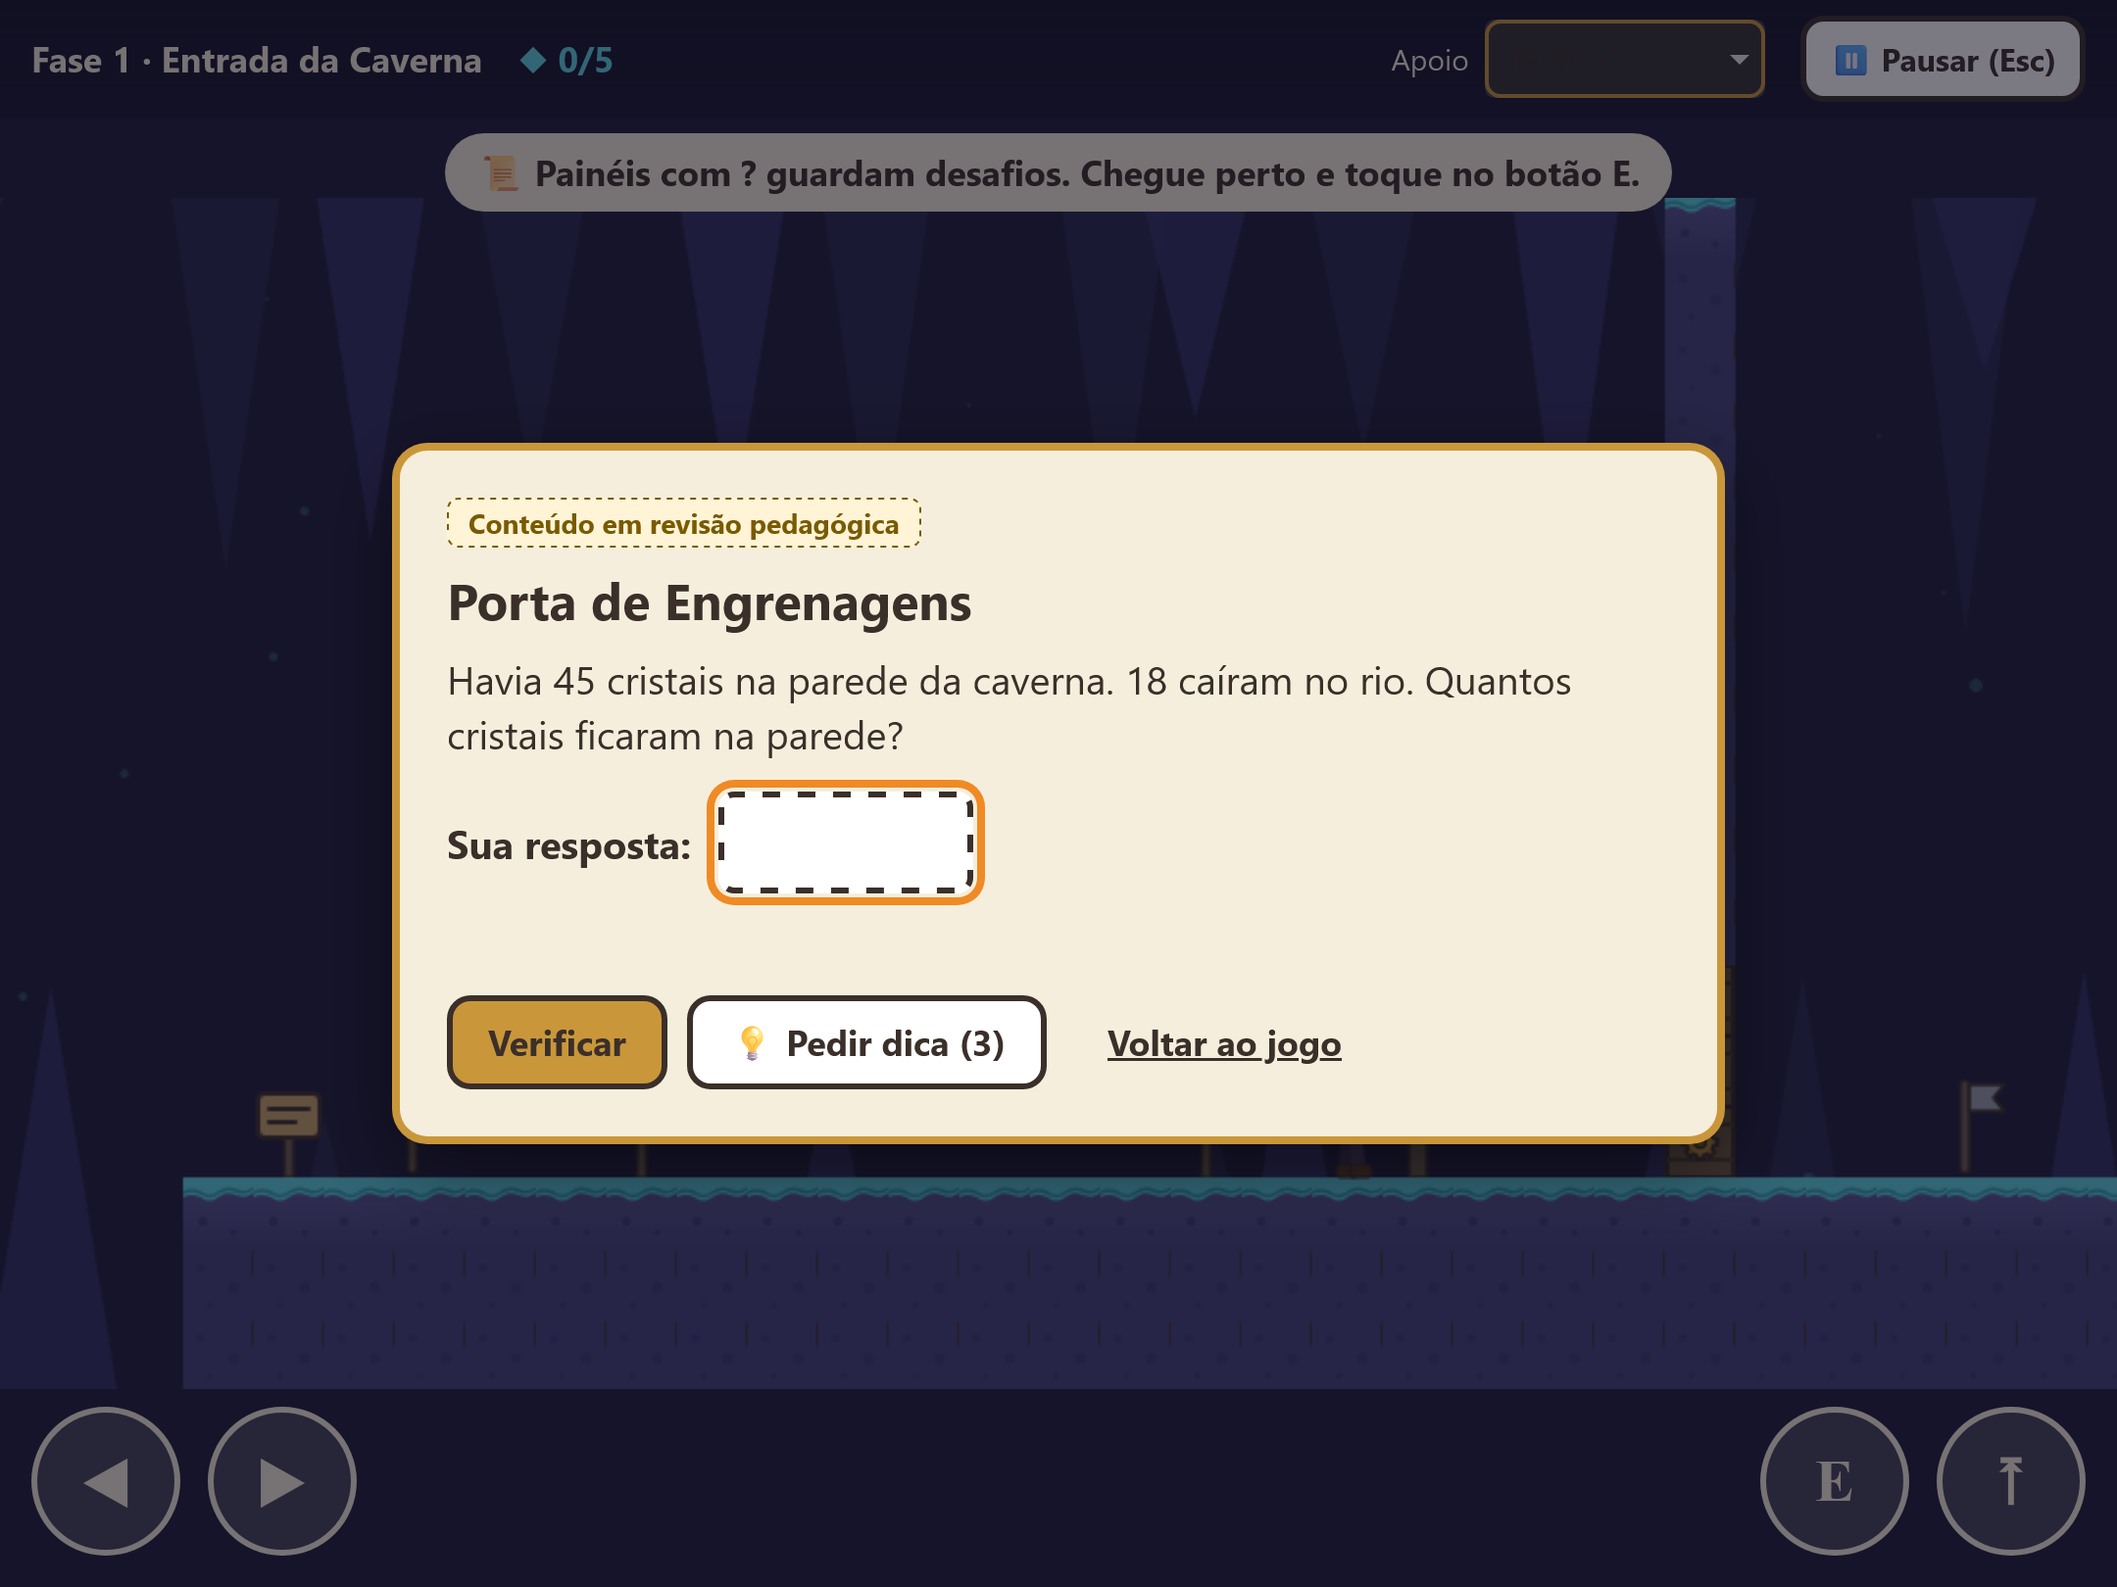
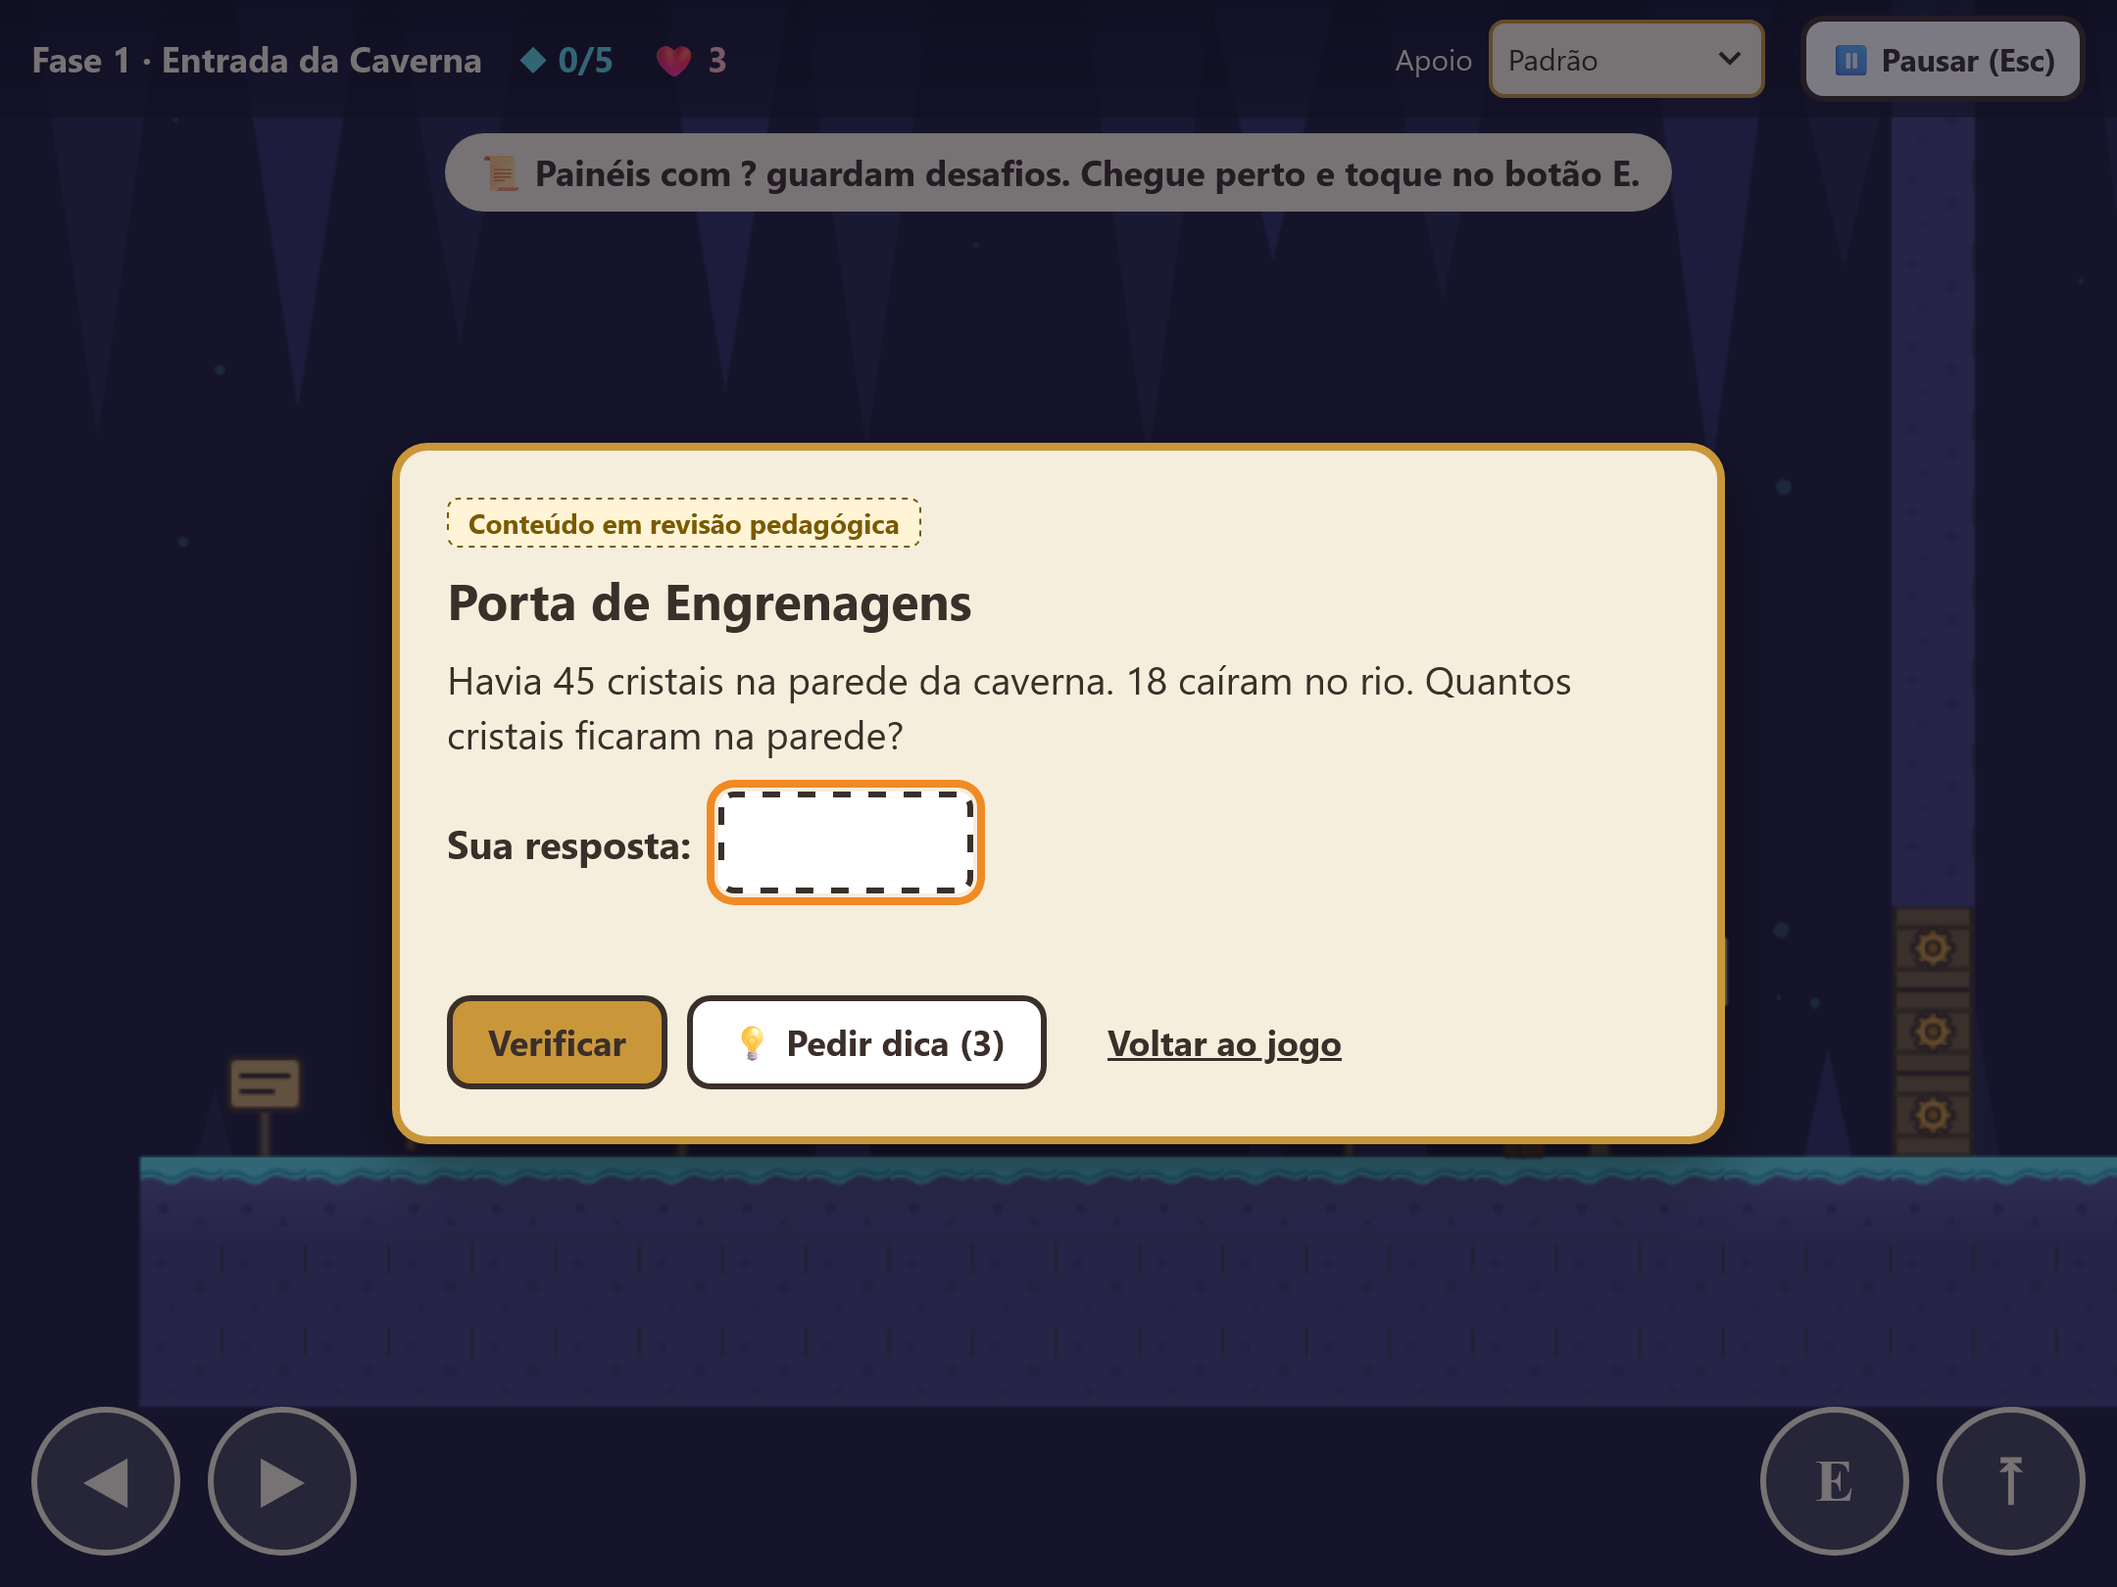
Vidas e enquadramento: docs, capturas e pausa bloqueada na janela de recomeço

diff --git a/src/scenes/LevelScene.ts b/src/scenes/LevelScene.ts
@@ -315,12 +315,10 @@ export class LevelScene extends Phaser.Scene {
     this.cameras.main.startFollow(this.leo, true, 0.12, 0.12, 0, 40);
     this.cameras.main.setDeadzone(120, 80);
 
-    const onEsc = (): void => {
-      if (!this.dialog && !this.completed) this.game.events.emit(EV.pauseRequest);
-    };
+    const onEsc = (): void => this.pedirPausa();
     this.input.keyboard?.on('keydown-ESC', onEsc);
 
-    showHud(this.data_.titulo, () => this.game.events.emit(EV.pauseRequest));
+    showHud(this.data_.titulo, () => this.pedirPausa());
     this.updateCollectHud();
     setVidas(this.vidas.vidas);
     this.mountTouchIfWanted();
@@ -433,8 +431,15 @@ export class LevelScene extends Phaser.Scene {
     this.destroyTouch?.();
     this.destroyTouch = null;
     this.mountTouchIfWanted();
-    showHud(this.data_.titulo, () => this.game.events.emit(EV.pauseRequest));
+    showHud(this.data_.titulo, () => this.pedirPausa());
     this.updateCollectHud();
+    // A entrada nova nasce ligada: desliga de novo se há desafio, recomeço ou pedido para girar na tela.
+    this.input_.setEnabled(!this.dialog && !this.recomeco && !this.girando);
+  }
+
+  /** Pausa (Esc ou botão), menos por cima de um desafio, da janela de vidas zeradas ou com a fase concluída. */
+  private pedirPausa(): void {
+    if (!this.dialog && !this.recomeco && !this.completed) this.game.events.emit(EV.pauseRequest);
   }
 
   private updateCollectHud(): void {

diff --git a/tests/e2e/vidas.spec.ts b/tests/e2e/vidas.spec.ts
@@ -77,6 +77,17 @@ test.describe('vidas por fase', () => {
     expect(pontos.checkpoints.every((c) => !c.ativa)).toBe(true);
   });
 
+  test('com a janela de vidas zeradas aberta, Esc não abre a pausa por cima', async ({ page }) => {
+    await open(page);
+    await startLevel(page, 'f1');
+    for (let i = 0; i < 3; i++) await cair(page);
+    await expect(page.getByRole('dialog')).toContainText('As vidas acabaram!');
+    await page.keyboard.press('Escape');
+    await page.waitForTimeout(300);
+    expect(await page.evaluate(() => window.__leo!.screen())).toBeNull();
+    await expect(page.getByRole('dialog')).toContainText('As vidas acabaram!');
+  });
+
   test('concluir depois de recomeçar conta só os coletáveis da nova tentativa', async ({ page }) => {
     await open(page);
     await startLevel(page, 'f1');

diff --git a/docs/relatorios/vidas-e-enquadramento.md b/docs/relatorios/vidas-e-enquadramento.md
@@ -1,0 +1,60 @@
+# Relatório: vidas por fase e enquadramento em celular/tablet
+
+Data: 19/11/2026 · Versão: 0.11.0-alpha.1 · Desenho: [vidas-e-enquadramento-design](../superpowers/specs/2026-11-19-vidas-e-enquadramento-design.md) · Plano: [vidas-e-enquadramento](../superpowers/plans/2026-11-19-vidas-e-enquadramento.md)
+
+## Vidas
+
+| Situação | O que acontece |
+|---|---|
+| Início da fase | ❤ 3 no topo; no modo assistido, ❤ ∞ (sem limite) |
+| Pegar um coletável | Conta, mas só fica "guardado" ao tocar numa bandeira |
+| Tocar numa bandeira | "🚩 Bandeira! Seus cristais estão guardados. Se cair, você volta para cá." |
+| Cair num buraco | −1 vida e volta à última bandeira. Os coletáveis pegos depois dela voltam para o lugar, com o aviso "Ops! Você caiu. Restam 2 vidas…" |
+| Vidas zeradas | Janela "As vidas acabaram! Vamos tentar de novo do começo da fase. Os desafios que você resolveu continuam abertos." → **Recomeçar a fase** |
+| Recomeço | Leo no início. Coletáveis, bandeiras e caixas voltam ao estado inicial e as vidas voltam a 3. **Pontes, portas, escadas e elevadores já ativados continuam abertos** |
+| Errar um desafio | Nunca custa vida |
+
+A regra fica em [`src/core/vidas.ts`](../../src/core/vidas.ts), separada do Phaser e com testes unitários. Os testes de ponta a ponta estão em [`tests/e2e/vidas.spec.ts`](../../tests/e2e/vidas.spec.ts):
+- a bandeira guarda os coletáveis;
+- duas quedas seguidas gastam só 1 vida;
+- o recomeço mantém os desafios;
+- o resultado da fase conta só a nova tentativa;
+- o modo assistido não tem limite;
+- o Esc não abre a pausa por cima da janela.
+
+## Enquadramento
+
+| Problema (antes) | Correção |
+|---|---|
+| Celular deitado: faixas pretas nas laterais; botões de toque por cima do Leo e do chão | A escala do Phaser passou de `FIT` para `EXPAND`, e a fase ocupa a tela toda. O zoom da câmera mostra sempre ~540 px de altura do mundo e reserva embaixo a faixa dos botões, que ficam abaixo do chão ([`camera.ts`](../../src/scenes/camera.ts)) |
+| Celular em pé: a fase virava uma faixa fina no meio | Aparece "Vire o celular para jogar 🔄" com a fase pausada; ela continua sozinha ao girar ([`girar.ts`](../../src/ui/girar.ts)). As janelas de desafio aparecem por cima e funcionam em pé |
+| Tablet em pé: fase pequena com faixas | A fase ocupa a largura toda e fica logo acima dos botões; o espaço livre fica em cima, como céu |
+| Desafio "Toque no grupo com 6 estrelas": estrelas vazando dos cartões (foto do usuário, iPhone em pé) | Os grupos mantêm 5 figuras por linha, mas as figuras encolhem para caber no cartão |
+| Seletor "Apoio" ilegível no Safari/iPhone (texto escuro sobre controle escuro) | Seletor com aparência própria: fundo claro, texto escuro e seta desenhada |
+| Barra do topo apertada no celular deitado | "Pausar (Esc)" vira só o ícone ⏸ em telas baixas |
+
+Verificação automática em 7 aparelhos emulados ([`dispositivos.spec.ts`](../../tests/e2e/dispositivos.spec.ts)): iPhone 14 em pé e deitado, iPad em pé e deitado, Pixel 7 em pé e deitado, Galaxy Tab S4. Ela confere:
+- **deitado:** o jogo ocupa a largura e a altura da tela;
+- **em todos:** nenhum botão de toque cobre o Leo;
+- **só no celular em pé:** aparece o pedido para girar, e o Leo não se move enquanto isso;
+- **1º ano:** nenhuma figura sai do cartão nas janelas de escolha por imagem;
+- **axe-core:** sem violações de acessibilidade.
+
+Capturas em [`evidencias/`](evidencias/): `disp-*-fase.png`, `disp-*-girar.png`, `disp-*-escolha-*.png` e `disp-*-ordenar.png`.
+
+## Resultados
+
+| Suíte | Resultado |
+|---|---|
+| Unitários | 220 de 220 |
+| Edge, suíte completa | 56 passaram, 3 ignorados (os de toque) |
+| Celulares e tablets emulados | 21 de 21, nos 7 aparelhos × 3 testes |
+| Safari (WebKit): vidas e voz | 13 de 13, depois da correção do Esc |
+
+Na revisão final apareceu um problema, que já está corrigido: o Esc (ou o botão de pausa) abria a pausa por cima da janela "As vidas acabaram!". Ao voltar das configurações, os controles também eram religados com essa janela aberta. O teste "Esc não abre a pausa por cima" falhou antes da correção e passa agora.
+
+## Limites honestos
+
+- **Emulação não é aparelho físico.** O entalhe, a barra de gestos e a rotação de verdade (com a barra de endereço do Safari aparecendo e sumindo) precisam ser conferidos pelo roteiro [A3](../testes/roteiro-testes-manuais.md).
+- **Tablet em pé** mostra uma faixa escura acima da fase (fora do mapa). Nas fases claras (Vila, Cidade), essa faixa contrasta com o céu.
+- **O modo assistido** vale a partir do início da fase: ligá-lo no meio dela só vale ao recomeçar ou trocar de fase.

diff --git a/docs/gdd/gdd.md b/docs/gdd/gdd.md
@@ -5,7 +5,7 @@ Versão 0.2 · 17/11/2026
 ## 1. Visão
 Platformer 2D educativo. Leo, um jovem inventor, recupera as seis peças da Grande Engrenagem do Saber, uma em cada mundo (1º ao 6º ano). Os desafios de matemática **são** os mecanismos do cenário: resolver ergue pontes, abre portas, liga elevadores e monta escadas.
 
-**Pilares:** diversão de plataforma · aprendizagem com consequência visível · zero punição por errar.
+**Pilares:** diversão de plataforma · aprendizagem com consequência visível · zero punição por errar **na matemática** (errar um desafio nunca custa vida; as vidas valem só para quedas — ver §6).
 
 ## 2. Fluxo do jogador
 Abertura → História (3 quadros, pode pular, narração opcional) → Escolha do ano (os seis anos ativos) → Mapa do mundo (fases bloqueiam/desbloqueiam em ordem) → Fase → Tela de conclusão ("O que você descobriu", cristais, dicas, conquistas) → Próxima fase → Conclusão do mundo (engrenagem recuperada).
@@ -26,7 +26,7 @@ Física: passo fixo de 60 Hz; *coyote time* 100 ms; *buffer* de pulo 120 ms; sal
 | Elemento | Comportamento |
 |---|---|
 | Ponto de controle (bandeira) | Ao tocar, vira o lugar de reaparecimento |
-| Buraco | Cair devolve ao último ponto de controle (sem perder nada) |
+| Buraco | Cair gasta 1 vida e devolve à última bandeira; os coletáveis pegos depois dela voltam para o lugar |
 | Caixa | Empurrável; serve de degrau; volta ao lugar se cair |
 | Plataforma móvel | Vai e volta; carrega o Leo |
 | Cristal | Coletável opcional; contado no HUD e na conclusão |
@@ -112,7 +112,13 @@ O 1º ano continua sem plataformas móveis nem caixas. Novo formato do 1º ano n
 - Acerto: som curto ascendente, ✓ por espaço, explicação, mecanismo se move.
 - Erro: som suave, ✗ por espaço/máquina, mensagem específica (ex.: "3 linhas de 3 = 9 blocos — faltam 3"), dica conforme o apoio; explicação após 3 erros.
 - Conquistas valorizam esforço: primeira descoberta, pediu ajuda, persistência, explorador (todos os cristais), engrenagem.
-- **Não há:** pontuação, ranking, tempo-limite, vidas, compras ou anúncios.
+- **Vidas (desde a v0.11, decisão do responsável pelo projeto):**
+  - 3 por fase; cair num buraco gasta 1.
+  - A bandeira guarda os coletáveis pegos até ali; ao cair, voltam para o lugar só os pegos depois da última bandeira.
+  - Quando as vidas acabam, aparece uma janela gentil (sem "perdeu" ou "game over") e a fase recomeça do início. Os desafios resolvidos e os mecanismos continuam abertos.
+  - No **modo assistido** não há limite de vidas.
+  - Errar um desafio nunca custa vida.
+- **Não há:** pontuação, ranking, tempo-limite, compras ou anúncios.
 
 ## 7. Acessibilidade
 Desafios e menus em HTML acessível; foco visível; Esc/Enter/Tab; ✓/✗ além de cor; narração pt-BR; volumes separados; reduzir animações; texto maior; modo assistido; controles de toque; remapeamento de teclas. Ver relatório de testes para os limites conhecidos (o canvas não é lido por leitores de tela).

diff --git a/CHANGELOG.md b/CHANGELOG.md
@@ -2,6 +2,26 @@
 
 Formato: [versionamento semântico](https://semver.org/lang/pt-BR/). Versões `alpha` são protótipos de homologação, com conteúdo em revisão pedagógica.
 
+## 0.11.0-alpha.1 — 19/11/2026 · Vidas e enquadramento em celular/tablet
+- **3 vidas por fase.**
+  - O topo da tela mostra "❤ 3" ("❤ ∞" no modo assistido, que não tem limite).
+  - Cair num buraco gasta 1 vida e volta à última bandeira.
+  - Os coletáveis pegos depois da última bandeira voltam para o lugar. A bandeira os guarda: "Seus cristais estão guardados".
+- **Vidas zeradas:** uma janela gentil, "As vidas acabaram! Vamos tentar de novo do começo da fase", e a fase recomeça. Os desafios resolvidos e os mecanismos continuam abertos.
+- Errar um desafio continua sem custo.
+- **A fase ocupa a tela inteira** em celular e tablet (escala `EXPAND` do Phaser, com zoom de câmera):
+  - os botões de toque ficam numa faixa abaixo do chão e nunca cobrem o Leo;
+  - no tablet em pé, a fase fica logo acima dos botões.
+- **Celular em pé durante a fase:** "Vire o celular para jogar", com a fase pausada até girar. Menus e janelas de desafio continuam funcionando em pé.
+- **Desafios de escolha por imagem:** as figuras não vazam mais dos cartões em telas estreitas. Os grupos mantêm 5 por linha, com figuras que encolhem.
+- **Barra do topo:**
+  - o seletor "Apoio" ficou legível no Safari/iPhone;
+  - no celular deitado, a pausa vira só o ícone.
+- **Testes:**
+  - 220 unitários;
+  - vidas (`tests/e2e/vidas.spec.ts`);
+  - dispositivos: tela cheia, botões fora do Leo, pedido para girar e figuras dentro dos cartões, em 7 aparelhos emulados.
+
 ## 0.10.0-alpha.1 — 18/11/2026 · Voz humana do narrador (Faber)
 - **Narrador com voz neural Faber** (Piper, pt-BR), gerada no próprio aparelho: mesma voz humana em computador, tablet e celular, inclusive nos desafios sorteados. É grátis, sem conta, e nada é enviado para fora.
 - **Download automático** na primeira visita (cerca de 92 MB, só uma vez, com aviso discreto). Depois fica guardada no aparelho e funciona sem internet. Enquanto carrega, ou se o aparelho não aguentar, o narrador usa a voz do navegador.

diff --git a/docs/testes/roteiro-testes-manuais.md b/docs/testes/roteiro-testes-manuais.md
@@ -20,6 +20,19 @@ Use em cada navegador/dispositivo. Marque ✅ (ok), ❌ (falhou — registre em 
 | O som da voz respeita o volume "Voz (narração)" e some com o volume em zero | Sim | |
 | Sem internet (modo avião), depois de baixada: a voz continua funcionando | Sim | |
 
+## A3. Vidas e enquadramento em aparelho real
+
+| Verificação | Esperado | Resultado por aparelho |
+|---|---|---|
+| Celular **em pé** ao entrar numa fase | "Vire o celular para jogar"; o Leo não se move | |
+| Girar para **deitado** | A fase continua sozinha e ocupa a tela toda, sem faixas pretas | |
+| Botões ◀ ▶ E ⤒ | Ficam abaixo do chão, sem cobrir o Leo; respeitam a borda arredondada e o entalhe | |
+| Pegar um cristal, cair num buraco | Perde 1 vida (❤ 2); o cristal volta para o lugar | |
+| Pegar um cristal, tocar na bandeira, cair | O cristal continua contado | |
+| Cair 3 vezes | Janela "As vidas acabaram!"; "Recomeçar a fase" volta ao início com pontes e portas já abertas | |
+| Desafio de escolha (1º ano) com o celular em pé | Todas as figuras dentro dos cartões | |
+| Seletor "Apoio" | Texto legível | |
+
 ## B. Fluxo
 1. [ ] Abertura mostra título, Leo e 4 botões.
 2. [ ] "Jogar" na primeira vez mostra a história; "Pular história" funciona; "Ouvir" lê em voz alta.
